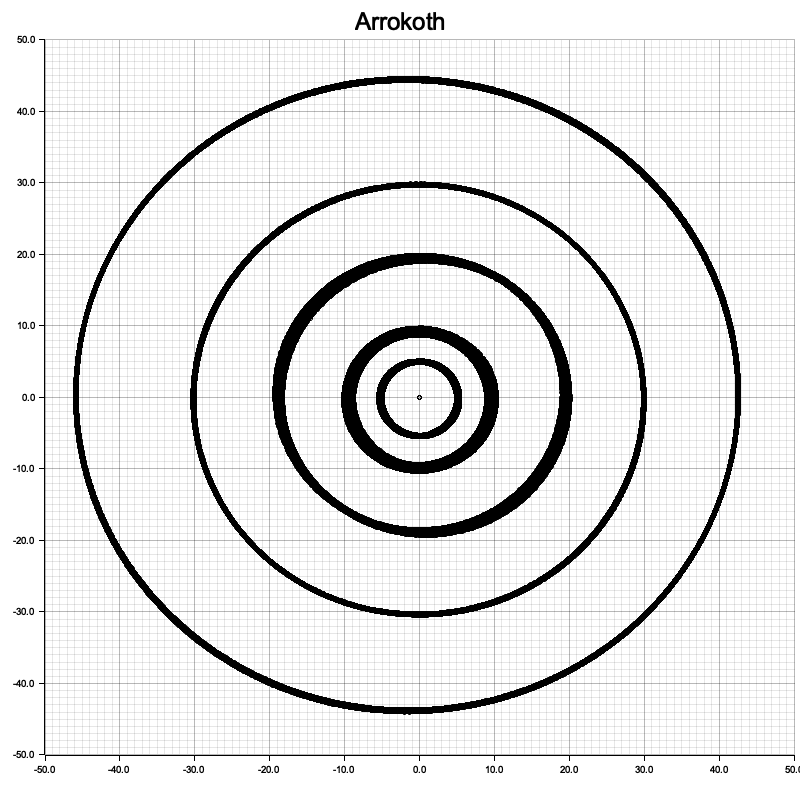
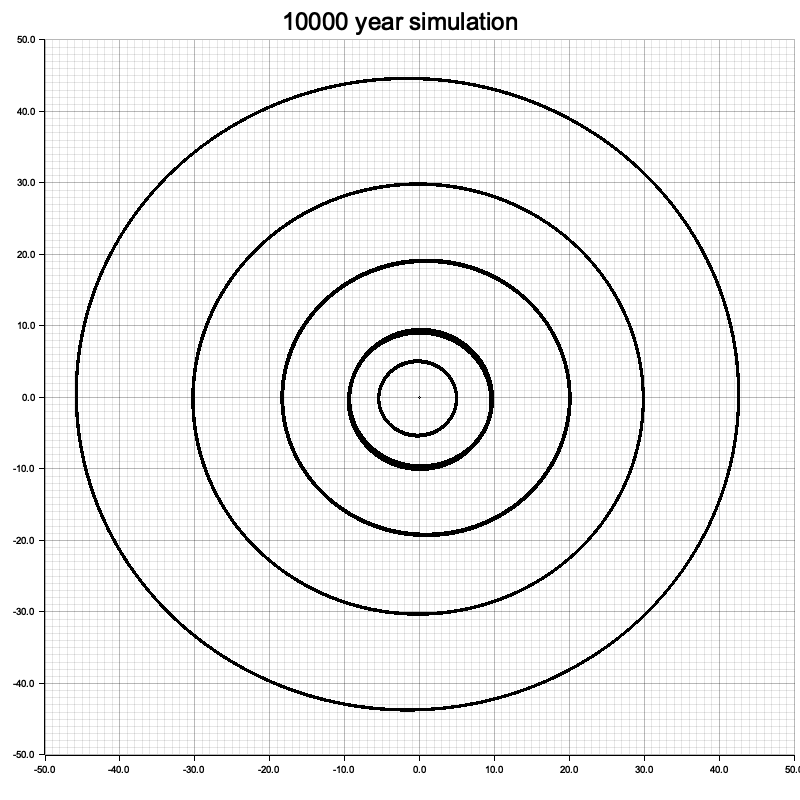
Removing stuff from main

diff --git a/src/nbody/simulation.rs b/src/nbody/simulation.rs
@@ -40,6 +40,17 @@ impl Simulation {
         }
     }
 
+    /// Instantiate a simulation with the solar system giants.
+    ///
+    /// # Arguments
+    ///
+    /// * `epoch` - The epoch of the simulation.
+    /// * `reference_plane` - The reference plane of the simulation.
+    /// * `origin` - The origin of the simulation.
+    ///
+    /// # Returns
+    ///
+    /// * `Result<Simulation, Box<dyn std::error::Error>>` - The simulation with the solar system giants.
     pub fn giants(epoch: &Time, reference_plane: &str, origin: &str) -> Result<Simulation, Box<dyn std::error::Error>> {
 
         let mut sim = Simulation::new();
@@ -54,6 +65,11 @@ impl Simulation {
         Ok(sim)
     }
 
+    /// Add a particle to the simulation.
+    ///
+    /// # Arguments
+    ///
+    /// * `particle` - The particle to add to the simulation.
     pub fn add(&mut self, mut particle: SpaceRock) -> Result<(), Box<dyn std::error::Error>> {
 
         if self.epoch != particle.epoch {
@@ -78,6 +94,11 @@ impl Simulation {
         Ok(())
     }
 
+    /// Remove a particle from the simulation.
+    ///
+    /// # Arguments
+    ///
+    /// * `name` - The name of the particle to remove.
     pub fn remove(&mut self, name: &str) -> Result<(), SimulationError> {
         if self.particle_index_map.contains_key(name) {
             let idx = self.particle_index_map[name];
@@ -94,10 +115,12 @@ impl Simulation {
         Ok(())
     }
 
+    /// Step the simulation forward in time by one timestep.
     pub fn step(&mut self) {
         self.integrator.step(&mut self.particles, &mut self.epoch, &self.forces);
     }
 
+    /// Move the simulation to the center of mass.
     pub fn move_to_center_of_mass(&mut self) -> Result<(), Box<dyn std::error::Error>> {
         let mut total_mass = 0.0;
         let mut center_of_mass = Vector3::new(0.0, 0.0, 0.0);
@@ -138,6 +161,11 @@ impl Simulation {
         Ok(())
     }
 
+    /// Change the origin of the simulation.
+    ///
+    /// # Arguments
+    ///     
+    /// * `origin` - The name of the particle to set as the origin.
     pub fn change_origin(&mut self, origin: &str) -> Result<(), String> {
 
         if !self.particle_index_map.contains_key(origin) {
@@ -159,6 +187,11 @@ impl Simulation {
         Ok(())
     }
 
+    /// Integrate the simulation to a new epoch.
+    ///
+    /// # Arguments
+    ///
+    /// * `epoch` - The new epoch to integrate to.
     pub fn integrate(&mut self, epoch: &Time) {
 
         let mut epoch = epoch.clone();
@@ -204,15 +237,25 @@ impl Simulation {
         self.integrator.set_timestep(old_timestep);
     }
 
-    pub fn get_particle(&self, name: &str) -> Result<&SpaceRock, Box<dyn std::error::Error>> {
+    /// Get a particle from the simulation by name.
+    ///
+    /// # Arguments
+    ///
+    /// * `name` - The name of the particle to get.
+    ///
+    /// # Returns
+    ///
+    /// * `Result<&SpaceRock, SimulationError>` - The particle with the given name.
+    pub fn get_particle(&self, name: &str) -> Result<&SpaceRock, SimulationError> {
         if self.particle_index_map.contains_key(name) { 
             let idx = self.particle_index_map[name];
             let p = &self.particles[idx];
             return Ok(p);
         }
-        return Err(format!("{} not found in simulation", name).into());
+        return Err(SimulationError::ParticleNotFound(name.to_string()).into());
     }
 
+    /// Get the energy of the simulation.
     pub fn energy(&self) -> f64 {
         let mut kinetic_energy = 0.0;
         let mut potential_energy = 0.0;
@@ -227,6 +270,11 @@ impl Simulation {
         return kinetic_energy + potential_energy;
     }
 
+    /// Add a force to the simulation.
+    ///
+    /// # Arguments
+    ///
+    /// * `force` - The force to add to the simulation.
     pub fn add_force(&mut self, force: Box<dyn Force + Send + Sync>) {
         self.forces.push(force);
     }

diff --git a/src/main.rs b/src/main.rs
@@ -25,60 +25,49 @@ fn main() -> Result<(), Box<dyn std::error::Error>> {
     // println!("{}", rock);
 
     // create a simulation and add arrokoth
-    let mut sim = Simulation::giants(&epoch, "ECLIPJ2000", "SSB")?;
-    sim.add(rock)?; 
-    sim.move_to_center_of_mass();
+    // let mut sim = Simulation::giants(&epoch, "ECLIPJ2000", "SSB")?;
+    // sim.add(rock)?; 
+    // sim.move_to_center_of_mass()?;
 
-    // storage for positions
-    // set up a hash map to store the positions of the rocks
-    let mut positions: HashMap<String, Vec<Vector3<f64>>> = HashMap::new();
+    // let dt = 10.0;
+    // let t_total = 365.25 * 10_000.0;
+    // let n_epochs = (t_total / dt) as usize;
 
-
-    let dt = 1000.0;
-    let t_total = 365.25 * 100_000.0;
-    let n_epochs = (t_total / dt) as usize;
-
-    for i in 0..n_epochs {
-        let t = epoch.clone() + (i as f64) * dt;
-        sim.integrate(&t);
-        for rock in &sim.particles {
-            let pos = rock.position;
-            let name = rock.name.clone();
-            if positions.contains_key(&name) {
-                positions.get_mut(&name).unwrap().push(pos);
-            } else {
-                positions.insert(name.to_string(), vec![pos]);
-            }
-        }
-    }
+    // let mut positions: HashMap<String, Vec<Vector3<f64>>> = HashMap::new();
+    // for i in 0..n_epochs {
+    //     let t = epoch.clone() + (i as f64) * dt;
+    //     sim.integrate(&t);
+    //     for rock in &sim.particles {
+    //         let pos = rock.position;
+    //         let name = rock.name.clone();
+    //         if positions.contains_key(&name) {
+    //             positions.get_mut(&name).unwrap().push(pos);
+    //         } else {
+    //             positions.insert(name.to_string(), vec![pos]);
+    //         }
+    //     }
+    // }
     
-    let root = BitMapBackend::new("plot.png", (800, 800)).into_drawing_area();
-    root.fill(&WHITE)?;
+    // let caption = format!("{} year simulation", (t_total / 365.25) as usize);
+    // let root = BitMapBackend::new("plot.png", (800, 800)).into_drawing_area();
+    // root.fill(&WHITE)?;
+    // let mut chart = ChartBuilder::on(&root)
+    //     .caption(caption, ("sans-serif", 30).into_font())
+    //     .margin(5)
+    //     .x_label_area_size(40)
+    //     .y_label_area_size(40)
+    //     .build_ranged(-50.0..50.0, -50.0..50.0)?;
+    // chart.configure_mesh().draw()?;
 
-    let mut chart = ChartBuilder::on(&root)
-        .caption("Arrokoth", ("sans-serif", 30).into_font())
-        .margin(5)
-        .x_label_area_size(40)
-        .y_label_area_size(40)
-        .build_ranged(-50.0..50.0, -50.0..50.0)?;
-
-    chart.configure_mesh().draw()?;
-
-    for (name, pos) in positions.iter() {
-        let x: Vec<f64> = pos.iter().map(|v| v.x).collect();
-        let y: Vec<f64> = pos.iter().map(|v| v.y).collect();
-
-        // scatter plot
-        chart.draw_series(
-            x.iter().zip(y.iter()).map(|(x, y)| {
-                Circle::new((*x, *y), 2, &BLACK)
-            })
-        )?;
-    }
+    // for (name, pos) in positions.iter() {
+    //     let x: Vec<f64> = pos.iter().map(|v| v.x).collect();
+    //     let y: Vec<f64> = pos.iter().map(|v| v.y).collect();
+    //     chart.draw_series(
+    //         x.iter().zip(y.iter()).map(|(x, y)| {
+    //             Circle::new((*x, *y), 1, &BLACK)
+    //         })
+    //     )?;
+    // }
    
-
-
-
-
     Ok(())
 }
